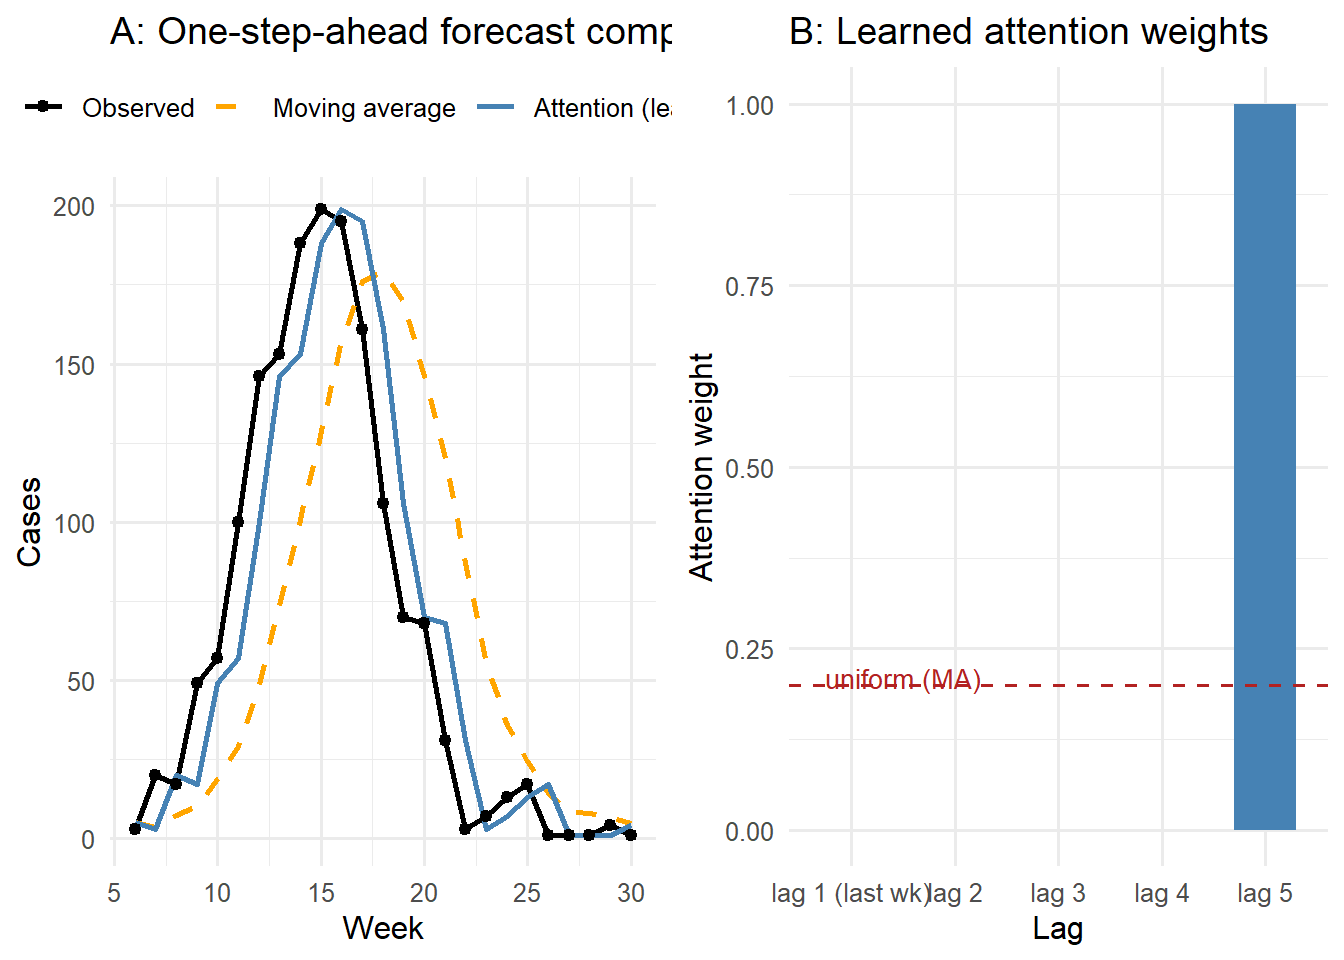
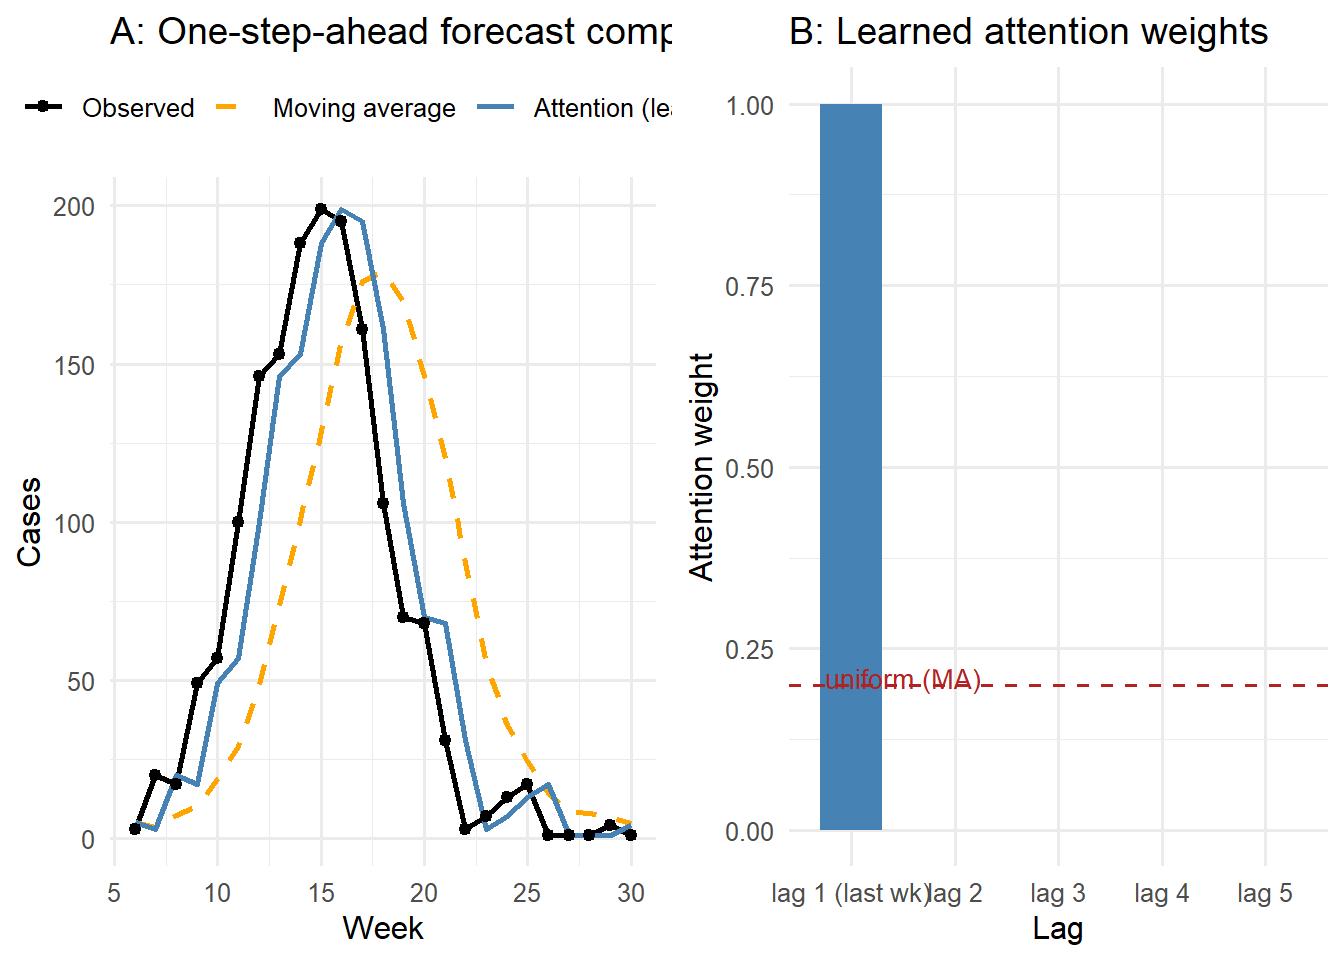
Fix reversed lag labels in ml_attention weight bar chart
X_mat stored lags oldest-first, so w_learned[5] (weight for the most
recent observation) was labeled "lag 5" instead of "lag 1 (last wk)".
Reversed the sliding window (rev(...)) so column 1 = lag 1, making the
bar chart consistent with the labels and the post text.

Changed region(s): [[0.9062, 0.0938, 0.9688, 0.875], [0.5938, 0.0938, 0.6562, 0.875]]

diff --git a/docs/blog/posts/ml_attention/index.html b/docs/blog/posts/ml_attention/index.html
@@ -441,8 +441,8 @@ window.Quarto = {
 
 <section id="why-transformers-matter-for-epidemic-intelligence" class="level2" data-number="1">
 <h2 data-number="1" class="anchored" data-anchor-id="why-transformers-matter-for-epidemic-intelligence"><span class="header-section-number">1</span> Why transformers matter for epidemic intelligence</h2>
-<p>In 2017, Vaswani et al. <span class="citation" data-cites="vaswani2017">(<a href="#ref-vaswani2017" role="doc-biblioref">1</a>)</span> published “Attention Is All You Need” and rendered recurrent networks obsolete for sequence modeling. The transformer architecture they introduced is now the foundation of every large language model — GPT-4, Claude, Gemini — and of the time-series forecasting models emerging in computational epidemiology, including Temporal Fusion Transformer <span class="citation" data-cites="lim2021">(<a href="#ref-lim2021" role="doc-biblioref">2</a>)</span> and TimeGPT.</p>
-<p>Understanding transformers has two practical payoffs for a digital twin platform:</p>
+<p>“Attention Is All You Need” by Vaswani et al. <span class="citation" data-cites="vaswani2017">(<a href="#ref-vaswani2017" role="doc-biblioref">1</a>)</span> is likely the most cited paper in the field of deep learning. It introduced the transformer architecture, which rendered recurrent networks obsolete for sequence modeling. The transformer architecture they introduced is now the foundation of every large language model and of the time-series forecasting models emerging in computational epidemiology, including Temporal Fusion Transformer <span class="citation" data-cites="lim2021">(<a href="#ref-lim2021" role="doc-biblioref">2</a>)</span> and TimeGPT <span class="citation" data-cites="garzaTimeGPT12024">(<a href="#ref-garzaTimeGPT12024" role="doc-biblioref">3</a>)</span>.</p>
+<p>Understanding transformers has practical payoffs including the following:</p>
 <ol type="1">
 <li><strong>Time-series forecasting</strong>: attention-based models can learn which past epidemic weeks are most informative for the next-week forecast — something fixed moving averages cannot do.</li>
 <li><strong>LLM integration</strong>: LLMs attend to every part of your prompt when generating each output token. Understanding this mechanism makes you a better prompt engineer.</li>
@@ -454,6 +454,8 @@ window.Quarto = {
 <p>The simplest forecaster is a <strong>moving average</strong> (MA): predict next week as the mean of the last <span class="math inline">\(k\)</span> weeks. This treats all lags equally. Attention learns a <em>weighted</em> average where the weights are optimised to minimise prediction error.</p>
 <p>To make this concrete, we generate a 30-week epidemic curve and set up a <strong>one-step-ahead forecasting task</strong>: given the last <span class="math inline">\(k = 5\)</span> weeks, predict the next week’s case count.</p>
 <div class="cell">
+<details class="code-fold">
+<summary>Code</summary>
 <div class="code-copy-outer-scaffold"><div class="sourceCode cell-code" id="cb1"><pre class="sourceCode r code-with-copy"><code class="sourceCode r"><span id="cb1-1"><a href="#cb1-1" aria-hidden="true" tabindex="-1"></a><span class="fu">set.seed</span>(<span class="dv">42</span>)</span>
 <span id="cb1-2"><a href="#cb1-2" aria-hidden="true" tabindex="-1"></a></span>
 <span id="cb1-3"><a href="#cb1-3" aria-hidden="true" tabindex="-1"></a><span class="co"># 30-week epidemic curve (rise to peak at week 15, then decline)</span></span>
@@ -467,15 +469,19 @@ window.Quarto = {
 <span id="cb1-11"><a href="#cb1-11" aria-hidden="true" tabindex="-1"></a>n_pred <span class="ot">&lt;-</span> <span class="fu">length</span>(cases) <span class="sc">-</span> k</span>
 <span id="cb1-12"><a href="#cb1-12" aria-hidden="true" tabindex="-1"></a>X_mat  <span class="ot">&lt;-</span> <span class="fu">do.call</span>(rbind, <span class="fu">lapply</span>(</span>
 <span id="cb1-13"><a href="#cb1-13" aria-hidden="true" tabindex="-1"></a>  (k <span class="sc">+</span> <span class="dv">1</span>)<span class="sc">:</span><span class="fu">length</span>(cases),</span>
-<span id="cb1-14"><a href="#cb1-14" aria-hidden="true" tabindex="-1"></a>  <span class="cf">function</span>(i) cases[(i <span class="sc">-</span> k)<span class="sc">:</span>(i <span class="sc">-</span> <span class="dv">1</span>)]</span>
-<span id="cb1-15"><a href="#cb1-15" aria-hidden="true" tabindex="-1"></a>))                                      <span class="co"># (n_pred, k) — each row is a window</span></span>
+<span id="cb1-14"><a href="#cb1-14" aria-hidden="true" tabindex="-1"></a>  <span class="cf">function</span>(i) <span class="fu">rev</span>(cases[(i <span class="sc">-</span> k)<span class="sc">:</span>(i <span class="sc">-</span> <span class="dv">1</span>)])</span>
+<span id="cb1-15"><a href="#cb1-15" aria-hidden="true" tabindex="-1"></a>))                                      <span class="co"># (n_pred, k) — col 1 = lag 1 (most recent)</span></span>
 <span id="cb1-16"><a href="#cb1-16" aria-hidden="true" tabindex="-1"></a>y_vec  <span class="ot">&lt;-</span> cases[(k <span class="sc">+</span> <span class="dv">1</span>)<span class="sc">:</span><span class="fu">length</span>(cases)] <span class="co"># (n_pred,)   — next-week targets</span></span>
 <span id="cb1-17"><a href="#cb1-17" aria-hidden="true" tabindex="-1"></a></span>
 <span id="cb1-18"><a href="#cb1-18" aria-hidden="true" tabindex="-1"></a><span class="fu">cat</span>(<span class="st">"Forecasting steps:"</span>, n_pred, <span class="st">"</span><span class="sc">\n</span><span class="st">"</span>)</span></code></pre></div><button title="Copy to Clipboard" class="code-copy-button"><i class="bi"></i></button></div>
+</details>
 <div class="cell-output cell-output-stdout">
 <pre><code>Forecasting steps: 25 </code></pre>
 </div>
+<details class="code-fold">
+<summary>Code</summary>
 <div class="code-copy-outer-scaffold"><div class="sourceCode cell-code" id="cb3"><pre class="sourceCode r code-with-copy"><code class="sourceCode r"><span id="cb3-1"><a href="#cb3-1" aria-hidden="true" tabindex="-1"></a><span class="fu">cat</span>(<span class="st">"Observed range:   "</span>, <span class="fu">min</span>(cases), <span class="st">"–"</span>, <span class="fu">max</span>(cases), <span class="st">"cases/week</span><span class="sc">\n</span><span class="st">"</span>)</span></code></pre></div><button title="Copy to Clipboard" class="code-copy-button"><i class="bi"></i></button></div>
+</details>
 <div class="cell-output cell-output-stdout">
 <pre><code>Observed range:    1 – 199 cases/week</code></pre>
 </div>
@@ -486,8 +492,10 @@ window.Quarto = {
 <p>A moving average computes <span class="math inline">\(\hat{y}_t = \frac{1}{k} \sum_{j=1}^{k} x_{t-j}\)</span>. Attention generalises this to a <em>softmax-weighted</em> sum:</p>
 <p><span class="math display">\[\hat{y}_t = \sum_{j=1}^{k} w_j \, x_{t-j}, \quad \mathbf{w} = \text{softmax}(\boldsymbol{\alpha})\]</span></p>
 <p>where <span class="math inline">\(\boldsymbol{\alpha} \in \mathbb{R}^k\)</span> are <strong>unnormalized attention logits</strong> — the parameters we learn. The softmax ensures weights are non-negative and sum to 1. We find <span class="math inline">\(\boldsymbol{\alpha}\)</span> by minimising mean squared prediction error with gradient descent.</p>
-<p>This is the core idea behind every transformer: learn <em>which positions to attend to</em> rather than treating all positions equally.</p>
+<p>This is the core idea behind every transformer, i.e., learning which positions to attend to. In the following sections, we will see how the idea is generalized to the transformer architecture.</p>
 <div class="cell">
+<details class="code-fold">
+<summary>Code</summary>
 <div class="code-copy-outer-scaffold"><div class="sourceCode cell-code" id="cb5"><pre class="sourceCode r code-with-copy"><code class="sourceCode r"><span id="cb5-1"><a href="#cb5-1" aria-hidden="true" tabindex="-1"></a>softmax <span class="ot">&lt;-</span> <span class="cf">function</span>(alpha) {</span>
 <span id="cb5-2"><a href="#cb5-2" aria-hidden="true" tabindex="-1"></a>  e <span class="ot">&lt;-</span> <span class="fu">exp</span>(alpha <span class="sc">-</span> <span class="fu">max</span>(alpha))   <span class="co"># numerically stable</span></span>
 <span id="cb5-3"><a href="#cb5-3" aria-hidden="true" tabindex="-1"></a>  e <span class="sc">/</span> <span class="fu">sum</span>(e)</span>
@@ -528,23 +536,33 @@ window.Quarto = {
 <span id="cb5-38"><a href="#cb5-38" aria-hidden="true" tabindex="-1"></a>rmse_attn <span class="ot">&lt;-</span> <span class="fu">sqrt</span>(<span class="fu">mean</span>((attn_pred <span class="sc">-</span> y_vec)<span class="sc">^</span><span class="dv">2</span>))</span>
 <span id="cb5-39"><a href="#cb5-39" aria-hidden="true" tabindex="-1"></a></span>
 <span id="cb5-40"><a href="#cb5-40" aria-hidden="true" tabindex="-1"></a><span class="fu">cat</span>(<span class="st">"Learned attention weights (lag 1 = last week, lag 5 = 5 weeks ago):</span><span class="sc">\n</span><span class="st">"</span>)</span></code></pre></div><button title="Copy to Clipboard" class="code-copy-button"><i class="bi"></i></button></div>
+</details>
 <div class="cell-output cell-output-stdout">
 <pre><code>Learned attention weights (lag 1 = last week, lag 5 = 5 weeks ago):</code></pre>
 </div>
+<details class="code-fold">
+<summary>Code</summary>
 <div class="code-copy-outer-scaffold"><div class="sourceCode cell-code" id="cb7"><pre class="sourceCode r code-with-copy"><code class="sourceCode r"><span id="cb7-1"><a href="#cb7-1" aria-hidden="true" tabindex="-1"></a><span class="fu">cat</span>(<span class="fu">paste0</span>(<span class="st">"  lag "</span>, <span class="fu">seq_len</span>(k), <span class="st">": "</span>, <span class="fu">round</span>(w_learned, <span class="dv">3</span>)), <span class="at">sep =</span> <span class="st">"</span><span class="sc">\n</span><span class="st">"</span>)</span></code></pre></div><button title="Copy to Clipboard" class="code-copy-button"><i class="bi"></i></button></div>
+</details>
 <div class="cell-output cell-output-stdout">
-<pre><code>  lag 1: 0
+<pre><code>  lag 1: 1
   lag 2: 0
   lag 3: 0
   lag 4: 0
-  lag 5: 1</code></pre>
+  lag 5: 0</code></pre>
 </div>
+<details class="code-fold">
+<summary>Code</summary>
 <div class="code-copy-outer-scaffold"><div class="sourceCode cell-code" id="cb9"><pre class="sourceCode r code-with-copy"><code class="sourceCode r"><span id="cb9-1"><a href="#cb9-1" aria-hidden="true" tabindex="-1"></a><span class="fu">cat</span>(<span class="st">"</span><span class="sc">\n</span><span class="st">Moving average RMSE:"</span>, <span class="fu">round</span>(rmse_ma,   <span class="dv">1</span>), <span class="st">"</span><span class="sc">\n</span><span class="st">"</span>)</span></code></pre></div><button title="Copy to Clipboard" class="code-copy-button"><i class="bi"></i></button></div>
+</details>
 <div class="cell-output cell-output-stdout">
 <pre><code>
 Moving average RMSE: 55.8 </code></pre>
 </div>
+<details class="code-fold">
+<summary>Code</summary>
 <div class="code-copy-outer-scaffold"><div class="sourceCode cell-code" id="cb11"><pre class="sourceCode r code-with-copy"><code class="sourceCode r"><span id="cb11-1"><a href="#cb11-1" aria-hidden="true" tabindex="-1"></a><span class="fu">cat</span>(<span class="st">"Attention RMSE:     "</span>, <span class="fu">round</span>(rmse_attn, <span class="dv">1</span>), <span class="st">"</span><span class="sc">\n</span><span class="st">"</span>)</span></code></pre></div><button title="Copy to Clipboard" class="code-copy-button"><i class="bi"></i></button></div>
+</details>
 <div class="cell-output cell-output-stdout">
 <pre><code>Attention RMSE:      24.3 </code></pre>
 </div>
@@ -553,6 +571,8 @@ Moving average RMSE: 55.8 </code></pre>
 <section id="what-the-learned-weights-reveal" class="level2" data-number="4">
 <h2 data-number="4" class="anchored" data-anchor-id="what-the-learned-weights-reveal"><span class="header-section-number">4</span> What the learned weights reveal</h2>
 <div class="cell">
+<details class="code-fold">
+<summary>Code</summary>
 <div class="code-copy-outer-scaffold"><div class="sourceCode cell-code" id="cb13"><pre class="sourceCode r code-with-copy"><code class="sourceCode r"><span id="cb13-1"><a href="#cb13-1" aria-hidden="true" tabindex="-1"></a><span class="fu">library</span>(ggplot2)</span>
 <span id="cb13-2"><a href="#cb13-2" aria-hidden="true" tabindex="-1"></a></span>
 <span id="cb13-3"><a href="#cb13-3" aria-hidden="true" tabindex="-1"></a>week_idx <span class="ot">&lt;-</span> (k <span class="sc">+</span> <span class="dv">1</span>)<span class="sc">:</span><span class="fu">length</span>(cases)</span>
@@ -607,6 +627,7 @@ Moving average RMSE: 55.8 </code></pre>
 <span id="cb13-52"><a href="#cb13-52" aria-hidden="true" tabindex="-1"></a>  <span class="fu">print</span>(p_pred)</span>
 <span id="cb13-53"><a href="#cb13-53" aria-hidden="true" tabindex="-1"></a>  <span class="fu">print</span>(p_weights)</span>
 <span id="cb13-54"><a href="#cb13-54" aria-hidden="true" tabindex="-1"></a>}</span></code></pre></div><button title="Copy to Clipboard" class="code-copy-button"><i class="bi"></i></button></div>
+</details>
 <div class="cell-output-display">
 <div class="quarto-figure quarto-figure-center">
 <figure class="figure">
@@ -678,6 +699,9 @@ Moving average RMSE: 55.8 </code></pre>
 </div>
 <div id="ref-lim2021" class="csl-entry" role="listitem">
 <div class="csl-left-margin">2. </div><div class="csl-right-inline">Lim B, Arik SO, Loeff N, Pfister T. Temporal fusion transformers for interpretable multi-horizon time series forecasting. International Journal of Forecasting. 2021;37(4):1748–64. doi:<a href="https://doi.org/10.1016/j.ijforecast.2021.03.012">10.1016/j.ijforecast.2021.03.012</a></div>
+</div>
+<div id="ref-garzaTimeGPT12024" class="csl-entry" role="listitem">
+<div class="csl-left-margin">3. </div><div class="csl-right-inline">Garza A, Challu C, Mergenthaler-Canseco M. <span>TimeGPT-1</span> [Internet]. arXiv; 2024 [cited 2026 Apr 23]. Available from: <a href="https://arxiv.org/abs/2310.03589">https://arxiv.org/abs/2310.03589</a> doi:<a href="https://doi.org/10.48550/arXiv.2310.03589">10.48550/arXiv.2310.03589</a></div>
 </div>
 </div>
 

diff --git a/docs/blog/index.html b/docs/blog/index.html
@@ -1066,7 +1066,7 @@ Apr 24, 2026
 </a>
 </div>
 </div>
[2 lines of base64/hex data omitted]
 <div class="body">
 <h3 class="no-anchor listing-title">
 <a href="../blog/posts/ml_attention/index.html" class="no-external">Self-Attention and Transformers: The Architecture Behind LLMs</a>
@@ -1085,7 +1085,7 @@ Apr 24, 2026
 
 </div>
 <div class="delink listing-description"><a href="../blog/posts/ml_attention/index.html" class="no-external">
-In 2017, Vaswani et al. <span class="citation" data-cites="vaswani2017">(1)</span> published “Attention Is All You Need” and rendered recurrent networks obsolete for sequence modeling. The transformer architecture they…<span class="citation" data-cites="lim2021"></span>
+“Attention Is All You Need” by Vaswani et al. <span class="citation" data-cites="vaswani2017">(1)</span> is likely the most cited paper in the field of deep learning. It introduced the transformer architecture, which rendered…<span class="citation" data-cites="lim2021"></span><span class="citation" data-cites="garzaTimeGPT12024"></span>
 </a></div>
 </div>
 <div class="metadata">
